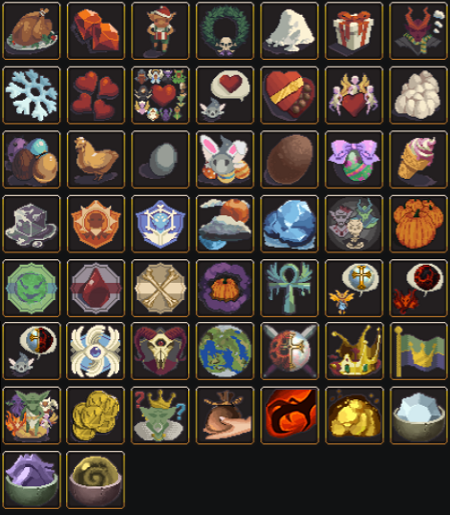
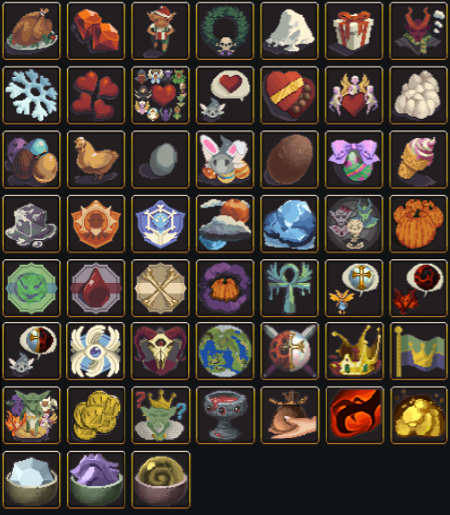
event update

Changed region(s): [[0.0, 0.7456, 0.9956, 0.9942]]

diff --git a/Events/index.php b/Events/index.php
@@ -1,4 +1,4 @@
-<!DOCTYPE html PUBLIC "-//W3C//DTD XHTML 1.0 Strict//EN"
+<!DOCTYPE html PUBLIC "-//W3C//DTD XHTML 1.0 Strict//EN"
         "http://www.w3.org/TR/xhtml1/DTD/xhtml1-strict.dtd">
 <html xmlns="http://www.w3.org/1999/xhtml" lang="en" xml:lang="en">
 
@@ -55,7 +55,7 @@
                     <tr>
                         <th>Rubies</th>
                         <th colspan="1">Event</th>
-                        <th colspan="6">Total Cumulative Bonus 304%</th>
+                        <th colspan="6">Total Cumulative Bonus 312%</th>
                     </tr>
                 </thead>
                 <tbody>
@@ -115,6 +115,7 @@
                             <td>Goblin Invasion</td>
                             <td></td>
                             <td></td>
+                            <td>8%</td>
                             <td>8%</td>
                             <td>8%</td>
                             <td>8%</td>
@@ -511,53 +512,60 @@
     <p><b><img src=http://musicfamily.org/realm/Factions/picks/TheUndecidedArmada.png align=middle> The Undecided Armada</b></p>
     <p><b>Type</b>: Feat</p>
     <p><b>Requirements</b>: Collect at least 480 Goblin Crowns with a single click while having no faction.</p>
-    <p><b>Note</b>: If you unlock this feat, you will permanently unlock a new upgrade.</p>
-    <p><b>Effect</b>: Gain assistants based on the amount of buildings you own.</p>
-    <p><b>Formula</b>: (0.65 * x ^ 0.35), where x is amount of buildings you own. (multiplicative)</p>
-    <p><b>Note</b>: Once unlocked, it is available during any Seasonal Event.<p><b>Note</b>: This Feat is not needed to unlock new mana color.</p>
+    <p><b>Note</b>:  If you unlock this feat, you will permanently unlock a new upgrade.</p>
+    <p><b>Note</b>: Once unlocked, it is available during any Seasonal Event.</p>
+    <p><b>Note</b>: This Feat is not needed to unlock new mana color.</p>
     " coords="131,389,189,443" shape="rect">
     <area research="
+    <p><b>Goblin Invasion</b></p>
+    <p><b><img src=http://musicfamily.org/realm/Factions/picks/PlatinumTrophy.png align=middle> <b>Platinum Trophy</b></p>
+    <p><b>Type</b>: Feat</p>
+    <p><b>Requirements</b>: While affiliated with the Goblins and having supported the Army at least 70 times, collect a stack of at least 720 Goblin Crowns.</p>
+    <p><b>Note</b>: If you unlock this feat, you will permanently unlock a new cosmetic shape for your coin particles.</p>
+    <p><b>Note</b>: This Feat is not needed to unlock new mana color.</p>
+    " coords="196,386,254,443" shape="rect">
+    <area research="
     <p><b>Idillium</b></p>
-    <p><b><img src=http://musicfamily.org/realm/Factions/picks/GentleCollector.png align=middle> Gentle Collector</b></p>
+    <p><b><img src=http://musicfamily.org/realm/Factions/picks/GentleCollector.png align=middle> <b>Gentle Collector</b></p>
     <p><b>Type</b>: Feat</p>
     <p><b>Requirements</b>: Collect at least 480 Entropic Drops with a single click while affiliated with the Fairies.</p>
     <p><b>Note</b>: If you unlock all of this event's feats, you will permanently unlock a new color option for the mana bar.</p>
-    " coords="196,388,254,443" shape="rect">
+    " coords="261,386,319,443" shape="rect">
     <area research="
     <p><b>Idillium</b></p>
     <p><b><img src=http://musicfamily.org/realm/Factions/picks/AggressiveCollector.png align=middle> Aggressive Collector</b></p>
     <p><b>Type</b>: Feat</p>
     <p><b>Requirements</b>: Collect at least 480 Crystal Prisms with a single click while affiliated with the Undead.</p>
     <p><b>Note</b>: If you unlock all of this event's feats, you will permanently unlock a new color option for the mana bar.</p>
-    " coords="261,387,318,443" shape="rect">
+    " coords="326,387,385,444" shape="rect">
     <area research="
     <p><b>Idillium</b></p>
     <p><b><img src=http://musicfamily.org/realm/Factions/picks/GoldenAge.png align=middle> Golden Age</b></p>
     <p><b>Type</b>: Feat</p>
     <p><b>Requirements</b>: Cast Remnant spells at least 1000 times.</p>
     <p><b>Note</b>: If you unlock all of this event's feats, you will permanently unlock a new color option for the mana bar.</p>
-    " coords="326,386,383,444" shape="rect">
+    " coords="392,386,446,444" shape="rect">
     <area research="
     <p><b>Idillium</b></p>
     <p><b><img src=http://musicfamily.org/realm/Factions/picks/OrderRestoration.png align=middle> Order Restoration</b></p>
     <p><b>Type</b>: Feat</p>
     <p><b>Requirements</b>: Upgrade Order Remnant to Level 15.</p>
     <p><b>Note</b>: If you unlock all of this event's feats, you will permanently unlock a new color option for the mana bar.</p>
-    " coords="390,385,446,443" shape="rect">
+    " coords="2,451,60,508" shape="rect">
     <area research="
     <p><b>Idillium</b></p>
     <p><b><img src=http://musicfamily.org/realm/Factions/picks/ChaosRestoration.png align=middle> Chaos Restoration</b></p>
     <p><b>Type</b>: Feat</p>
     <p><b>Requirements</b>: Upgrade Chaos Remnant to Level 15.</p>
     <p><b>Note</b>: If you unlock all of this event's feats, you will permanently unlock a new color option for the mana bar.</p>
-    " coords="2,452,62,508" shape="rect">
+    " coords="67,451,126,508" shape="rect">
     <area research="
     <p><b>Idillium</b></p>
     <p><b><img src=http://musicfamily.org/realm/Factions/picks/BalanceRestoration.png align=middle> Balance Restoration</b></p>
     <p><b>Type</b>: Feat</p>
     <p><b>Requirements</b>: Upgrade Balance Remnant to Level 15.</p>
     <p><b>Note</b>: If you unlock all of this event's feats, you will permanently unlock a new color option for the mana bar.</p>
-    " coords="67,452,126,509" shape="rect">
+    " coords="132,451,190,508" shape="rect">
                 </map>
             </p>
         </center>
@@ -624,7 +632,7 @@
                 <thead>
                     <tbody>
                         <tr>
-                            <th colspan="4">Event Coin Particles Options</th>
+                            <th colspan="5">Event Coin Particles Options</th>
                         </tr>
                         <tr>
                             <td>
@@ -642,6 +650,10 @@
                             <th>
                                 <center><img src="http://musicfamily.org/realm/Factions/picks/ParticleCloud1.png" width="68%" height="58%" /></center>
                                 <center>Blood War</center>
+                            </th>
+                            <th>
+                                <center><img src="http://musicfamily.org/realm/Factions/picks/ParticleNugget.png" width="38%" height="31" /></center>
+                                <center>Goblin Invasion</center>
                             </th>
                         </tr>
                     </tbody>
@@ -691,6 +703,140 @@
         <div class="shlisting">
             <p onclick="shohid($(this));"><b> <a href="#" onclick="return false;">2020 Events</a></b></p>
             <div class="category autohide">
+                <div class="shelementwhole">
+                    <p onclick="shohid($(this));"><b><a href="#" onclick="return false;">Goblin Invasion (June ? - July ?, 2020)</a></b></p>
+                    <div class="autohide">
+
+                        <p><b><img src="/realm/Factions/picks/TheGreatestArmy2017.png" alt="The Greatest Army" align="middle"> The Greatest Army</b></p>
+                        <p><b>Cost</b>: Free</p>
+                        <p><b>Effect</b>: Increase the production of all buildings based on the total amount of Goblin Crowns collected.</p>
+                        <p><b>Formula</b>: (x/20-0.005 *(x/20) ^ 2+0.00045 *(x/20) ^ 3)%, where x is amount of collected Goblin Crowns. Capped at 100000%.</p>
+                        <p><b>Note</b>: Persist through Abdication and Reincarnation. Will Disappear at the end of the event.</p>
+                        <br/>
+                        <p><b>Event Resources</b></p>
+                        <p><b><img src="/realm/Factions/picks/GobinCrown2017.png" alt="Goblin Crowns" align="middle"> Goblin Crowns</b></p>
+                        <p>During the Goblin Invasion Event you will be able to collect Goblin Crowns, appearing in a random location of your screen at a rate of 1 per minute, stacking up to 720 units (12 hours). These Resources will be used to either fight or support the invading Goblin Army: both choices will grant you new bonuses and unlock new unique upgrades. You can also complete Quests and Feats, also found in the Event panel. Aside for completion purposes, completed quests will also grant a small permanent production bonus. Remember that all Goblin Invasion upgrades and their bonuses will disappear after the event is over, with the exception of Quest bonuses and Feat achievements.</p>
+                        <p>The Formula for the cost needed to level a faction is floor((level + 1) ^ 0.85) Goblin Crowns</p>
+                        <p>You need 203 Goblin Crowns (total) to level a faction to level 25, 740 to level 50, and 2685 to level 100.</p>
+                        <p>You need 5370 Goblin Crowns to complete all quest by leveling both factions to level 100, Total time 3 days 17 hours 30 minutes without scrying.</p>
+                        <br/>
+                        <p><b><img src="/realm/Factions/picks/FighttheGoblinArmy2017.png" alt="Goblin Crowns" align="middle"> Fight the Goblin Army</b></p>
+                        <p><b>Requirement</b>: Good or Neutral alignment</p>
+                        <p><b>Effect</b>: Increase maximum mana and mana regeneration by 1% per level.</p>
+                        <br/>
+                        <p><b><img src="/realm/Factions/picks/SupporttheGoblinArmy2017.png" alt="Goblin Crowns" align="middle"> Support the Goblin Army</b></p>
+                        <p><b>Requirement</b>: Evil or Neutral alignment</p>
+                        <p><b>Effect</b>: Increase your assistants by 1% per level.</p>
+                        <hr>
+                        <p><b>Event Quest</b></p>
+                        <p><b>Goblin's Bane Quest</b>: Fight the Goblin Army</p>
+                        <p><b><img src="/realm/Factions/picks/Goblin'sBane12017.png" alt="Goblin's Bane" align="middle"> Goblin's Bane 1 of 3</b></p>
+                        <p><b>Requirement</b>: Fight the Goblin Army Level 25</p>
+                        <p><b>Effect</b>: Adds 1% cumulative bonus to your total Event bonus.</p>
+                        <p><b>Reward</b></p>
+                        <p><b><img src="/realm/Factions/picks/Goblin'sBane12017.png" alt="Goblin's Bane" align="middle"> Magical Clicks</b></p>
+                        <p><b>Effect</b>: Active spells generate additional automatic clicks. Higher spell tiers provide higher bonuses.</p>
+                        <p><b>Formula</b>: (floor(x ^ 1.2) / 10 + 1), where x is amount of active spells.</p>
+                        <br/>
+                        <p><b><img src="/realm/Factions/picks/Goblin'sBane22017.png" alt="Goblin's Bane" align="middle"> Goblin's Bane 2 of 3</b></p>
+                        <p><b>Requirement</b>: Fight the Goblin Army Level 50</p>
+                        <p><b>Effect</b>: Adds 1% cumulative bonus to your total Event bonus.</p>
+                        <p><b>Reward</b></p>
+                        <p><b><img src="/realm/Factions/picks/Goblin'sBane22017.png" alt="Goblin's Bane" align="middle"> Eye of the King</b></p>
+                        <p><b>Effect</b>: Increase the production of Neutral buildings based on the total amount of clicks made.</p>
+                        <p><b>Formula</b>: ((log10(1+x)) ^ 3.5)%, where x is total amount of clicks made.</p>
+                        <br/>
+                        <p><b><img src="/realm/Factions/picks/Goblin'sBane32017.png" alt="Goblin's Bane" align="middle"> Goblin's Bane 3 of 3</b></p>
+                        <p><b>Requirement</b>: Fight the Goblin Army Level 100</p>
+                        <p><b>Effect</b>: Adds 2% cumulative bonus to your total Event bonus.</p>
+                        <p><b>Reward</b></p>
+                        <p><b><img src="/realm/Factions/picks/Goblin'sBane32017.png" alt="Goblin's Bane" align="middle"> Spare Green Hands</b></p>
+                        <p><b>Effect</b>: Each manual click counts as 1000 clicks for all purposes.</p>
+                        <hr>
+                        <p><b>Goblin's Commander Quest</b>: Support the Goblin Army</p>
+                        <p><b><img src="/realm/Factions/picks/Goblin'sCommander12017.png" alt="Goblin's Bane" align="middle"> Goblin's Commander 1 of 3</b></p>
+                        <p><b>Requirement</b>: Support the Goblin Army Level 25</p>
+                        <p><b>Effect</b>: Adds 1% cumulative bonus to your total Event bonus.</p>
+                        <p><b>Reward</b></p>
+                        <p><b><img src="/realm/Factions/picks/Goblin'sCommander12017.png" alt="Goblin's Bane" align="middle"> Elite Goblins</b></p>
+                        <p><b>Effect</b>: All spells activity time counts more based on Evil spells cast in this Reincarnation.</p>
+                        <p><b>Formula</b>: (24 + 12 * ln(x)), where x is Evil spells cast in this Reincarnation.</p>
+                        <br/>
+                        <p><b><img src="/realm/Factions/picks/Goblin'sCommander22017.png" alt="Goblin's Bane" align="middle"> Goblin's Commander 2 of 3</b></p>
+                        <p><b>Requirement</b>: Support the Goblin Army Level 50</p>
+                        <p><b>Effect</b>: Adds 1% cumulative bonus to your total Event bonus.</p>
+                        <p><b>Reward</b></p>
+                        <p><b><img src="/realm/Factions/picks/Goblin'sCommander22017.png" alt="Goblin's Bane" align="middle"> Goblin Commandos</b></p>
+                        <p><b>Effect</b>: Increases the production of Farms, Inns, Blacksmiths and HOL based on the amount of assistants you own.</p>
+                        <p><b>Formula</b>: (150 * x ^ 0.25)%, where x is amount of assistants you own.</p>
+                        <br/>
+                        <p><b><img src="/realm/Factions/picks/Goblin'sCommander32017.png" alt="Goblin's Bane" align="middle"> Goblin's Commander 3 of 3</b></p>
+                        <p><b>Requirement</b>: Support the Goblin Army Level 100</p>
+                        <p><b>Effect</b>: Adds 2% cumulative bonus to your total Event bonus.</p>
+                        <p><b>Reward</b></p>
+                        <p><b><img src="/realm/Factions/picks/Goblin'sCommander32017.png" alt="Goblin's Bane" align="middle"> The Slack King</b></p>
+                        <p><b>Effect</b>: Increase the production of all buildings based on time spent in this Reincarnation. Also further increase Offline production by the same amount.</p>
+                        <p><b>Formula</b>: (0.01 * x ^ 0.7)%, where x is total time spent in seconds.</p>
+                        <hr>
+                        <p><b>Event Feat</b></p>
+                        <p><b><img src="/realm/Factions/picks/GoblinsBane2017.png" alt="Seraphim Champion" align="middle"> Goblins Bane</b></p>
+                        <p><b>Requirement</b>: Fight the Goblin Army 100 times.</p>
+                        <br/>
+                        <p><b><img src="/realm/Factions/picks/Goblin'sCommander2017.png" alt="Seraphim Champion" align="middle"> Goblin's Commander</b></p>
+                        <p><b>Requirement</b>: Support the Goblin Army 100 times.</p>
+                        <br/>
+                        <p><b><img src="/realm/Factions/picks/GoblinsEverywhere!2017.png" alt="Seraphim Champion" align="middle"> Goblins Everywhere!</b></p>
+                        <p><b>Requirement</b>: Collect at least 10 Goblin Crowns in a single click while affiliated with any 6 different factions.</p>
+                        <p><b>Note</b>: Prestige Factions count as 1 for Good, Evil, and Neutral alignment (Example Angel/Dwarf is 1, any other good/dwarf is not counted)</p>
+                        <br/>
+                        <p><b><img src="/realm/Factions/picks/GoldHunt2018.png" align="middle"> Gold Hunt</b></p>
+                        <p><b>Requirement</b>: Collect at least 480 Goblin Crowns with a single click while affiliated with Goblins.</p>
+                        <br/>
+                        <p><b><img src="/realm/Factions/picks/TheUndecidedArmada.png" align="middle"> The Undecided Armada</b></p>
+                        <p><b>Requirement</b>: Collect at least 480 Goblin Crowns with a single click while having no faction.</p>
+                        <p><b>Note</b>: If you unlock this feat, you will permanently unlock a new upgrade.</p>
+                        <p><b>Effect</b>: Gain assistants based on the amount of buildings you own.</p>
+                        <p><b>Formula</b>: (0.65 * x ^ 0.35), where x is amount of buildings you own. (multiplicative)</p>
+                        <p><b>Note</b>: Once unlocked, it is available during any Seasonal Event.</p>
+                        <br/>
+                        <p><b><img src=http://musicfamily.org/realm/Factions/picks/PlatinumTrophy.png align=middle> Platinum Trophy</b></p>
+                        <p><b>Type</b>: Feat</p>
+                        <p><b>Requirements</b>: While affiliated with the Goblins and having supported the Army at least 70 times, collect a stack of at least 720 Goblin Crowns.</p>
+                        <p><b>Note</b>: If you unlock this feat, you will permanently unlock a new cosmetic shape for your coin particles.</p>
+                        <p><b>Note</b>: This Feat is not needed to unlock new mana color.</p>
+                        <hr>
+                        <p><b>Shop Item</b></p>
+                        <p><b><img src="/realm/Factions/picks/75GoblinCrowns2017.png" align="middle"> 75 Goblin Crowns</b></p>
+                        <p>A greedy shady merchant wants to exchange 75 Goblin Crowns for 5 Rubies.</p>
+                        <p>He will offer you a new deal if you accept.</p>
+                        <br/>
+                        <p><b><img src="/realm/Factions/picks/300GoblinCrowns2017.png" align="middle"> 300 Goblin Crowns</b></p>
+                        <p>A greedy shady merchant wants to exchange 300 Goblin Crowns 15 Rubies.</p>
+                        <p>He will offer you a new deal if you accept.</p>
+                        <br/>
+                        <p><b><img src="/realm/Factions/picks/1250GoblinCrowns2017.png" align="middle"> 1250 Goblin Crowns</b></p>
+                        <p>A greedy shady merchant wants to exchange 1250 Goblin Crowns for 45 Rubies.</p>
+                        <p>He will offer you a new deal if you accept.</p>
+                        <br/>
+                        <p><b><img src="/realm/Factions/picks/3500GoblinCrowns2017.png" align="middle"> 3500 Goblin Crowns</b></p>
+                        <p>A greedy shady merchant wants to exchange 3500 Goblin Crowns for 100 Rubies.</p>
+                        <p>These are all the crowns he could gather.</p>
+                        <hr>
+
+
+                        <hr>
+                    </div>
+                </div>
+
+
+
+
+
+
+
+
+
+
                 <div class="shelementwhole">
                     <p onclick="shohid($(this));"><b><a href="#" onclick="return false;">Anniversary - Blood War (May 17 - May 21, 2020)</a></b></p>
                     <div class="autohide">
@@ -1855,7 +2001,7 @@
                         <p><b>Reward</b></p>
                         <p><b><img src="/realm/Factions/picks/Goblin'sCommander12017.png" alt="Goblin's Bane" align="middle"> Elite Goblins</b></p>
                         <p><b>Effect</b>: All spells activity time counts more based on Evil spells cast in this Reincarnation.</p>
-                        <p><b>Formula</b>: (8 + 0.8 * x ^ 0.8), where x is Evil spells cast in this Reincarnation.</p>
+                        <p><b>Formula</b>: (8 + 0.8 * x ^ 0.8)%, where x is Evil spells cast in this Reincarnation.</p>
                         <br/>
                         <p><b><img src="/realm/Factions/picks/Goblin'sCommander22017.png" alt="Goblin's Bane" align="middle"> Goblin's Commander 2 of 3</b></p>
                         <p><b>Requirement</b>: Support the Goblin Army Level 50</p>
